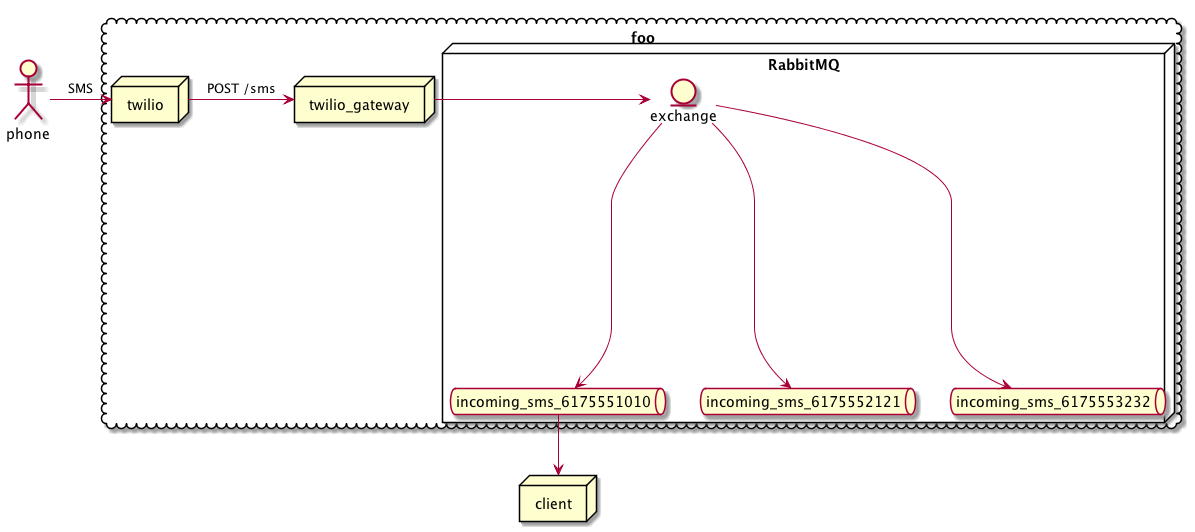
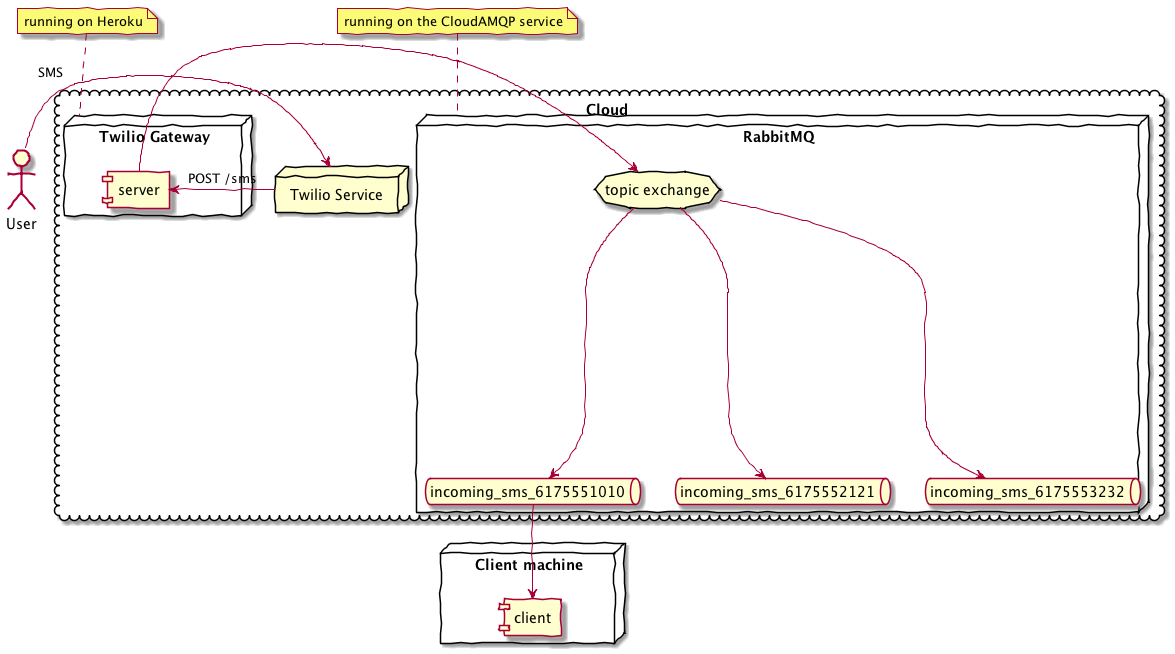
Update network diagram

diff --git a/README.md b/README.md
@@ -1,4 +1,4 @@
-# Twilio → MQTT Gateway
+# Twilio ⟶ MQTT Gateway
 
 A web application implementing a Twilio webhook handler, that relay incoming SMS
 messages to an MQTT server.
